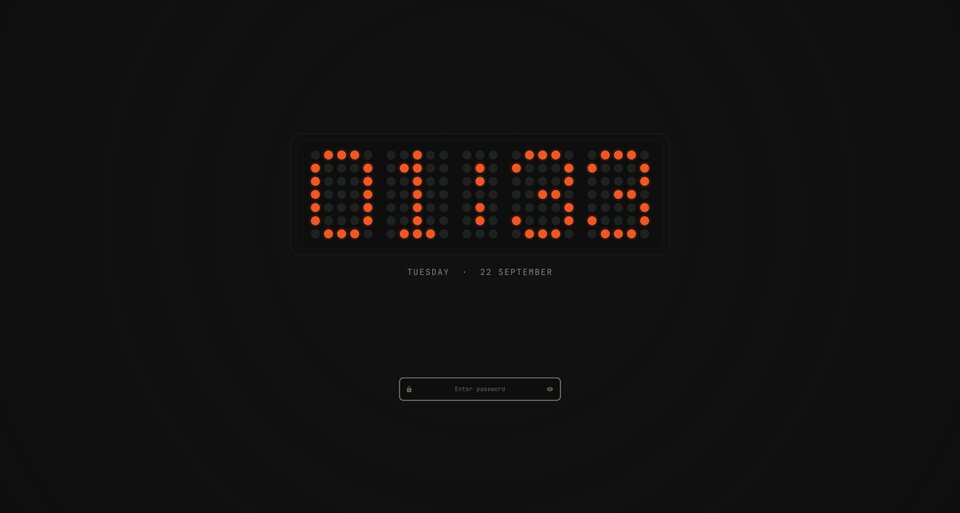
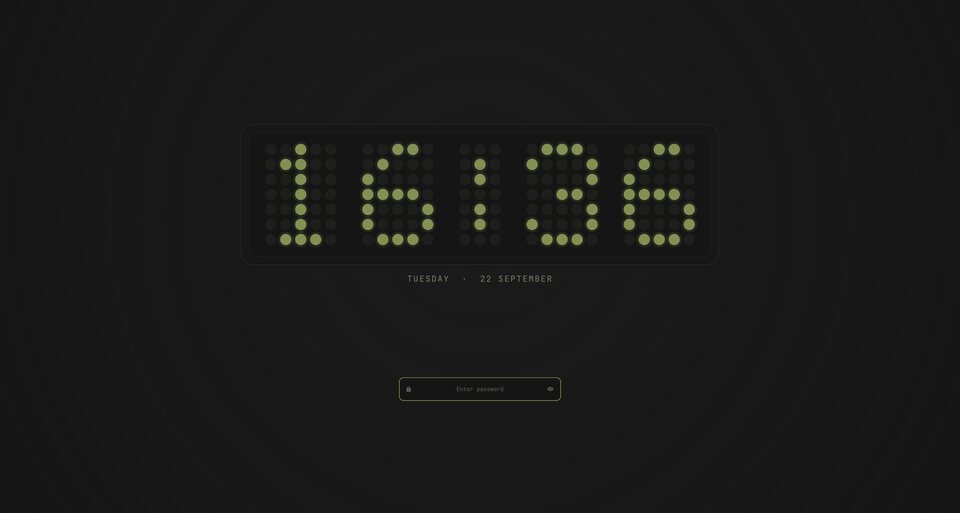
Make Dot Matrix easier to read
The unlit grid competed with the digits, so it drops to 5 percent on dark
themes and 9 percent on light ones. Dots are larger on a wider pitch, the
gap between digits grows so they no longer touch, the lit color sits a
notch toward the foreground, and the glow stays only on dark themes where
it separates the digits instead of blurring them. Gallery image refreshed.

Changed region(s): [[0.2812, 0.2807, 0.75, 0.499], [0.5, 0.499, 0.5938, 0.5614], [0.4062, 0.5302, 0.4688, 0.5614]]

diff --git a/designs/DotMatrix.qml b/designs/DotMatrix.qml
@@ -14,10 +14,13 @@ DesignBase {
   inputItem: field.input
 
   readonly property real u: Math.min(width, height) / 100
-  readonly property color lit: lock.errorState ? Color.lock.textError : Color.accent
-  readonly property color unlit: lock.withAlpha(Color.foreground, 0.09)
+  // Lit dots sit a notch toward the foreground so they clear the accent's own
+  // brightness; unlit ones are only a faint trace of the grid, fainter on dark
+  // themes where the glow already separates the digits.
+  readonly property color lit: lock.errorState ? Color.lock.textError : lock.raise(Color.accent, 1.1)
+  readonly property color unlit: lock.withAlpha(Color.foreground, lock.lightTheme ? 0.09 : 0.05)
   readonly property color panel: lock.deepen(Color.background, 1.65)
-  readonly property real pitch: lock.u * 2.4
+  readonly property real pitch: lock.u * 2.8
   readonly property string digits: lock.clock("HH:mm").substring(0, 5)
   readonly property bool colonOn: lock.now.getSeconds() % 2 === 0
 
@@ -90,7 +93,7 @@ DesignBase {
     id: board
     anchors.horizontalCenter: parent.horizontalCenter
     y: Math.round(lock.height * 0.36 - height / 2)
-    spacing: Math.round(lock.pitch * 1.1)
+    spacing: Math.round(lock.pitch * 1.7)
 
     Repeater {
       model: 5
@@ -102,14 +105,14 @@ DesignBase {
         readonly property bool colon: ch === ":"
         readonly property int cols: pattern[0].length
         columns: cols
-        spacing: Math.round(lock.pitch * 0.32)
+        spacing: Math.round(lock.pitch * 0.26)
 
         Repeater {
           model: digit.cols * 7
           delegate: Item {
             required property int index
             readonly property bool on: digit.pattern[Math.floor(index / digit.cols)].charAt(index % digit.cols) === "1" && (!digit.colon || lock.colonOn)
-            width: Math.round(lock.pitch * 0.68)
+            width: Math.round(lock.pitch * 0.74)
             height: width
 
             Rectangle {
@@ -118,7 +121,7 @@ DesignBase {
               height: width
               radius: width / 2
               color: lock.lit
-              opacity: parent.on ? 0.12 : 0
+              opacity: parent.on && !lock.lightTheme ? 0.14 : 0
               visible: opacity > 0
             }
             Rectangle {
